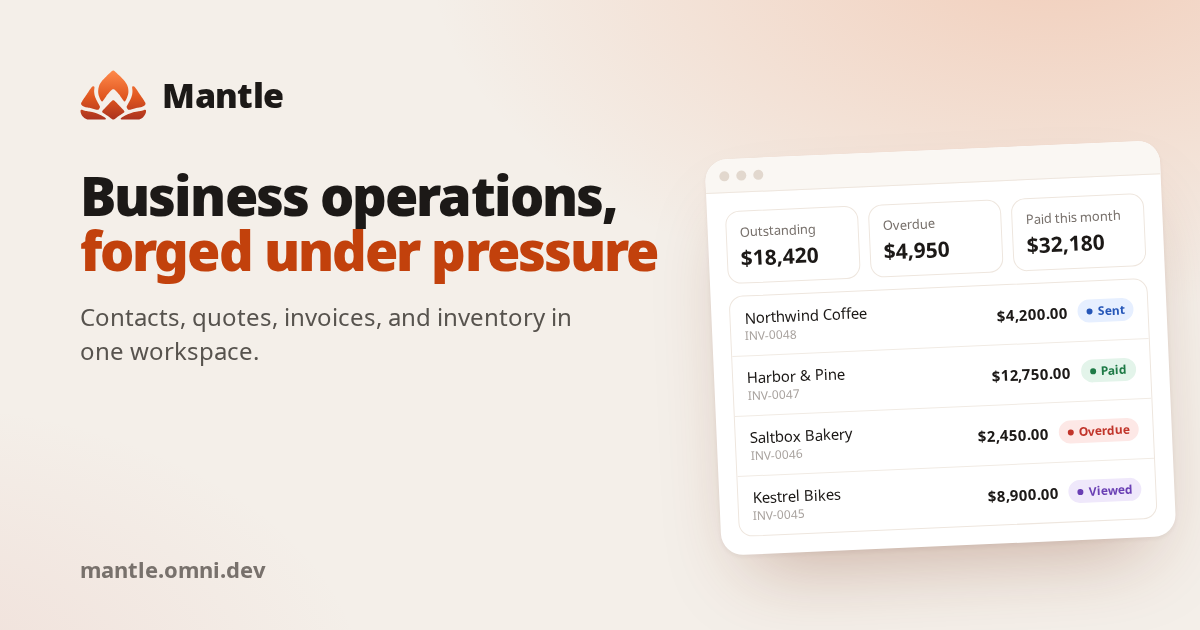
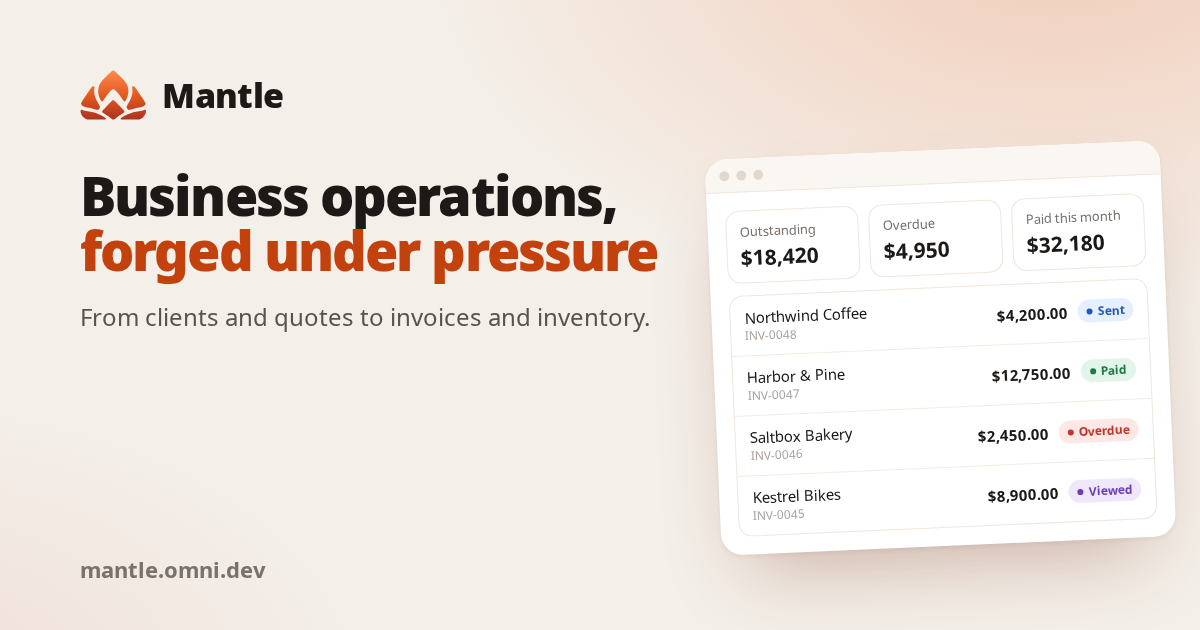
fix(meta): drop the one-workspace line from the description and share image (#80)

Changed region(s): [[0.0617, 0.4825, 0.5242, 0.573]]

diff --git a/src/lib/config/app.config.ts b/src/lib/config/app.config.ts
@@ -8,7 +8,7 @@ const app = {
   icon: "🌋",
   /** App description (used in SEO meta tags) */
   description:
-    "Open-source relationship management (CRM), quote to cash, invoicing, and inventory for small businesses, in one workspace you can self-host.",
+    "Open-source, self-hostable relationship management (CRM), quote to cash, invoicing, and inventory for small businesses.",
   /** Search keywords (used in SEO meta tags) */
   keywords:
     "crm, relationship management, quote to cash, invoicing, billing, quotes, contracts, inventory management, small business, back office, business operations, open source, self-hosted",

diff --git a/.changeset/description-copy.md b/.changeset/description-copy.md
@@ -1,0 +1,5 @@
+---
+"@omnidotdev/mantle-app": patch
+---
+
+Refresh the share image and site description copy
